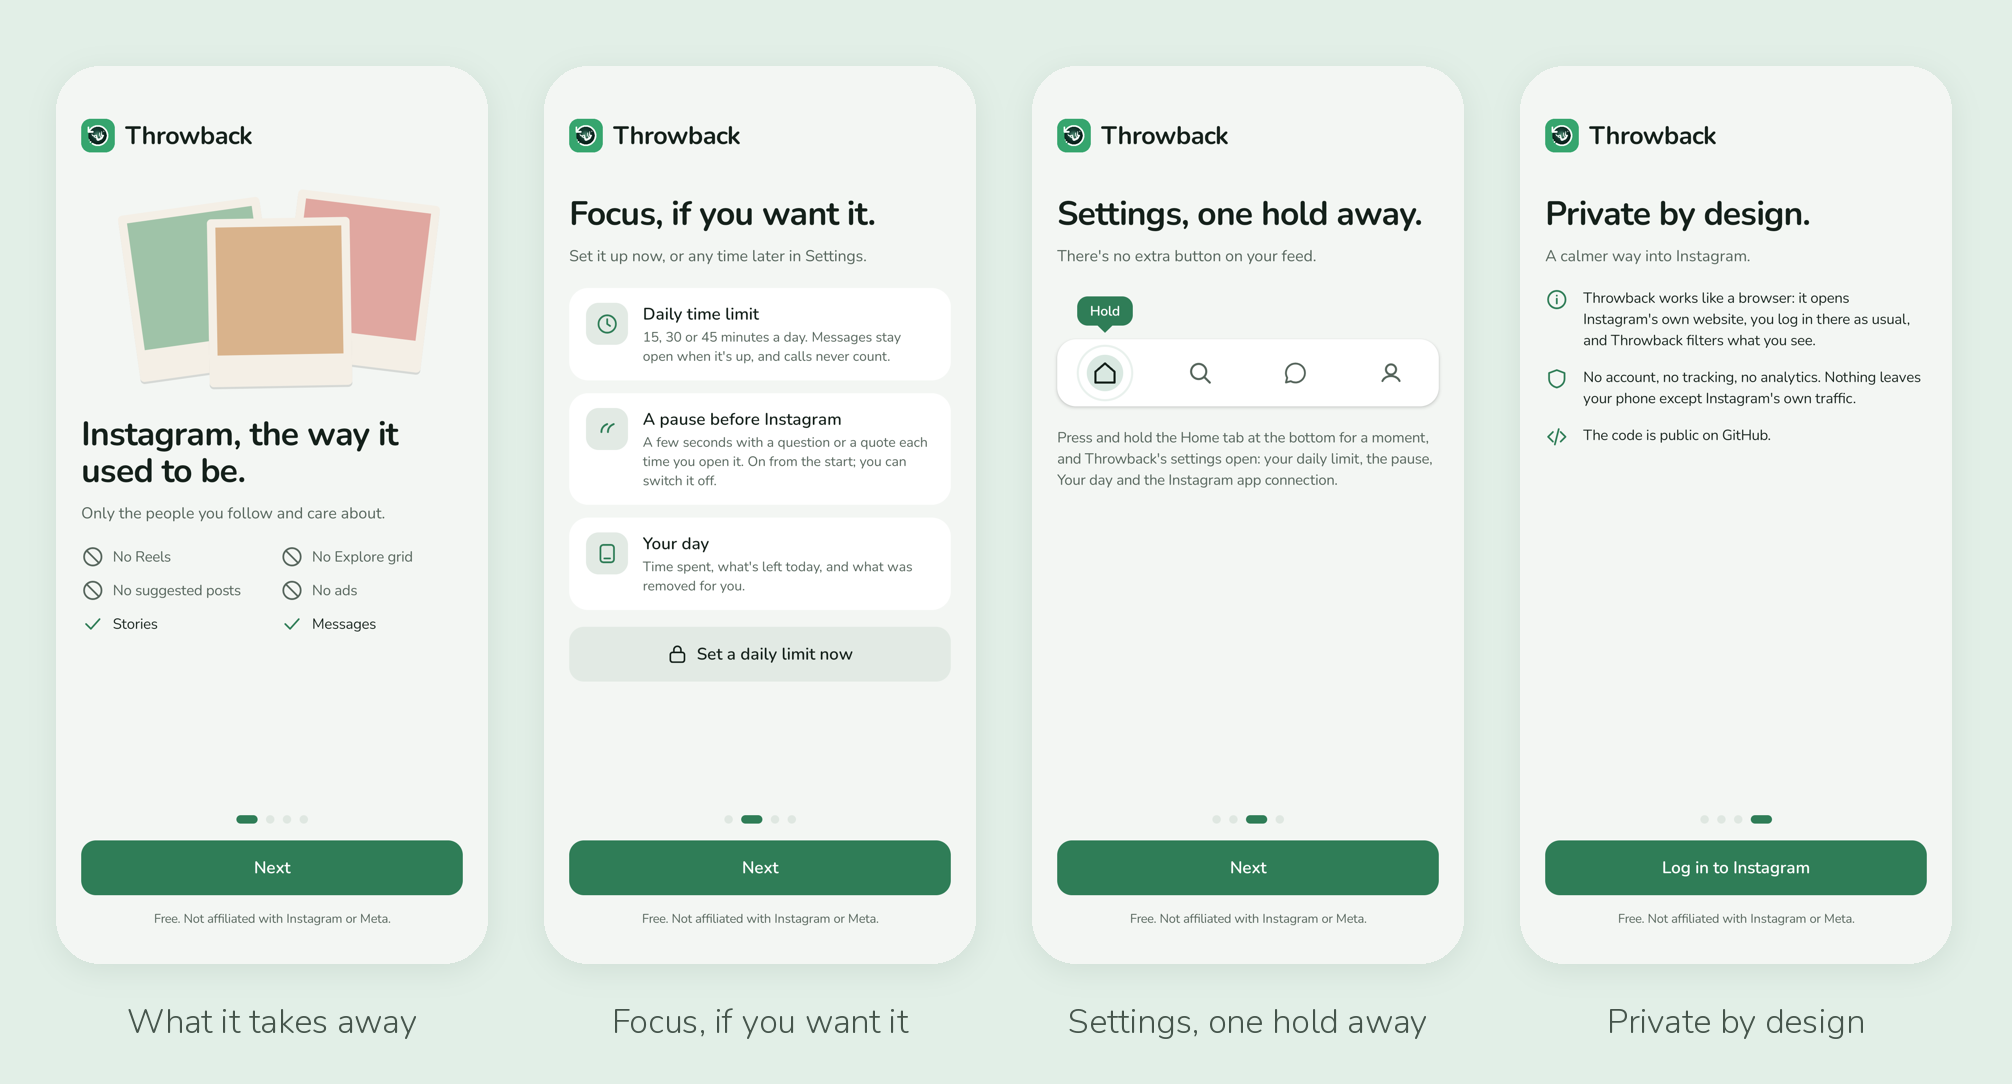
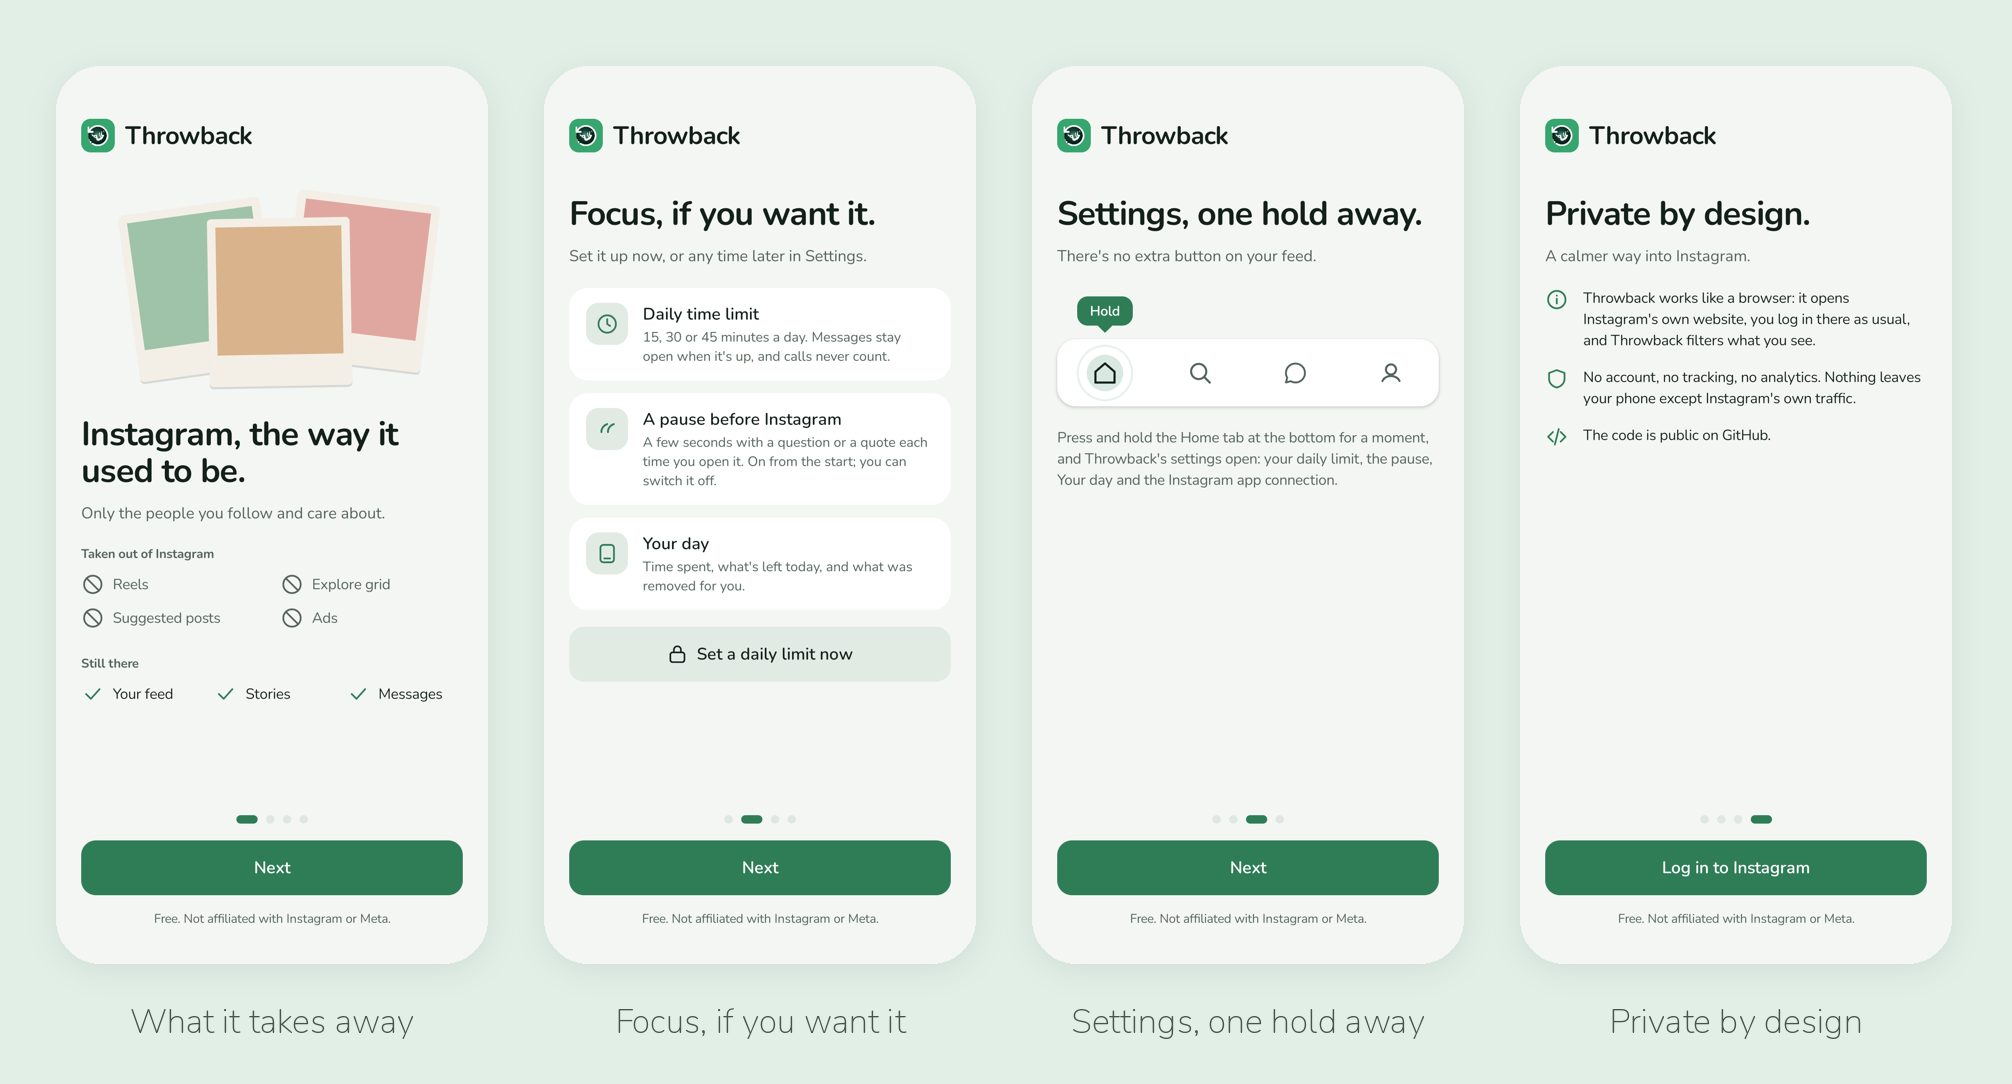
Welcome page 1: "Taken out of Instagram" and "Still there" labels on the grid
Without labels, "No Reels, No ads" could read as things Throwback lacks.

Claude-Session: https://claude.ai/code/session_01MfpUoBDWjBPriT94EMV532

diff --git a/app/src/main/java/app/throwback/ui/onboarding/Onboarding.kt b/app/src/main/java/app/throwback/ui/onboarding/Onboarding.kt
@@ -380,33 +380,49 @@ private fun PageDots(current: Int, count: Int, modifier: Modifier = Modifier) {
     }
 }
 
+/** What Throwback takes out of Instagram, and what stays (labelled, so it can't read as missing from Throwback). */
 @Composable
 private fun FeatureGrid() {
+    val colors = ThrowbackTheme.colors
     val removed = listOf(
-        R.string.ui_onb_no_reels,
-        R.string.ui_onb_no_explore,
-        R.string.ui_onb_no_suggested,
-        R.string.ui_onb_no_ads,
-    ).map { stringResource(it) to false }
-    val kept = listOf(R.string.ui_onb_stories, R.string.ui_onb_messages).map { stringResource(it) to true }
-    val items = removed + kept
+        R.string.ui_removes_reels,
+        R.string.ui_removes_explore,
+        R.string.ui_removes_suggested,
+        R.string.ui_removes_ads,
+    ).map { stringResource(it) }
+    val kept = listOf(R.string.ui_onb_feed, R.string.ui_onb_stories, R.string.ui_onb_messages).map { stringResource(it) }
+    val removedDescription = stringResource(R.string.ui_onb_removed_label)
     Column(verticalArrangement = Arrangement.spacedBy(10.dp)) {
-        items.chunked(2).forEach { pair ->
+        GridLabel(stringResource(R.string.ui_onb_removed_label))
+        removed.chunked(2).forEach { pair ->
             Row(horizontalArrangement = Arrangement.spacedBy(16.dp)) {
-                pair.forEach { (label, isKept) ->
-                    if (isKept) {
-                        FeatureItem(
-                            label, R.drawable.ic_check, highlighted = true, Modifier.weight(1f),
-                            description = stringResource(R.string.ui_onb_kept_description, label),
-                        )
-                    } else {
-                        FeatureItem(label, R.drawable.ic_blocked, highlighted = false, Modifier.weight(1f))
-                    }
+                pair.forEach { label ->
+                    FeatureItem(label, R.drawable.ic_blocked, highlighted = false, Modifier.weight(1f), description = "$removedDescription: $label")
                 }
                 if (pair.size == 1) Spacer(Modifier.weight(1f))
             }
         }
+        Spacer(Modifier.height(4.dp))
+        GridLabel(stringResource(R.string.ui_onb_kept_label))
+        Row(horizontalArrangement = Arrangement.spacedBy(16.dp)) {
+            kept.forEach { label ->
+                FeatureItem(
+                    label, R.drawable.ic_check, highlighted = true, Modifier.weight(1f),
+                    description = stringResource(R.string.ui_onb_kept_description, label),
+                )
+            }
+        }
     }
+}
+
+@Composable
+private fun GridLabel(text: String) {
+    Text(
+        text,
+        style = UiText.fine.copy(fontWeight = FontWeight.Bold),
+        color = ThrowbackTheme.colors.muted,
+        modifier = Modifier.semantics { heading() },
+    )
 }
 
 /** One item: [highlighted] in the accent colour (kept, or about Throwback), else muted (removed). */
